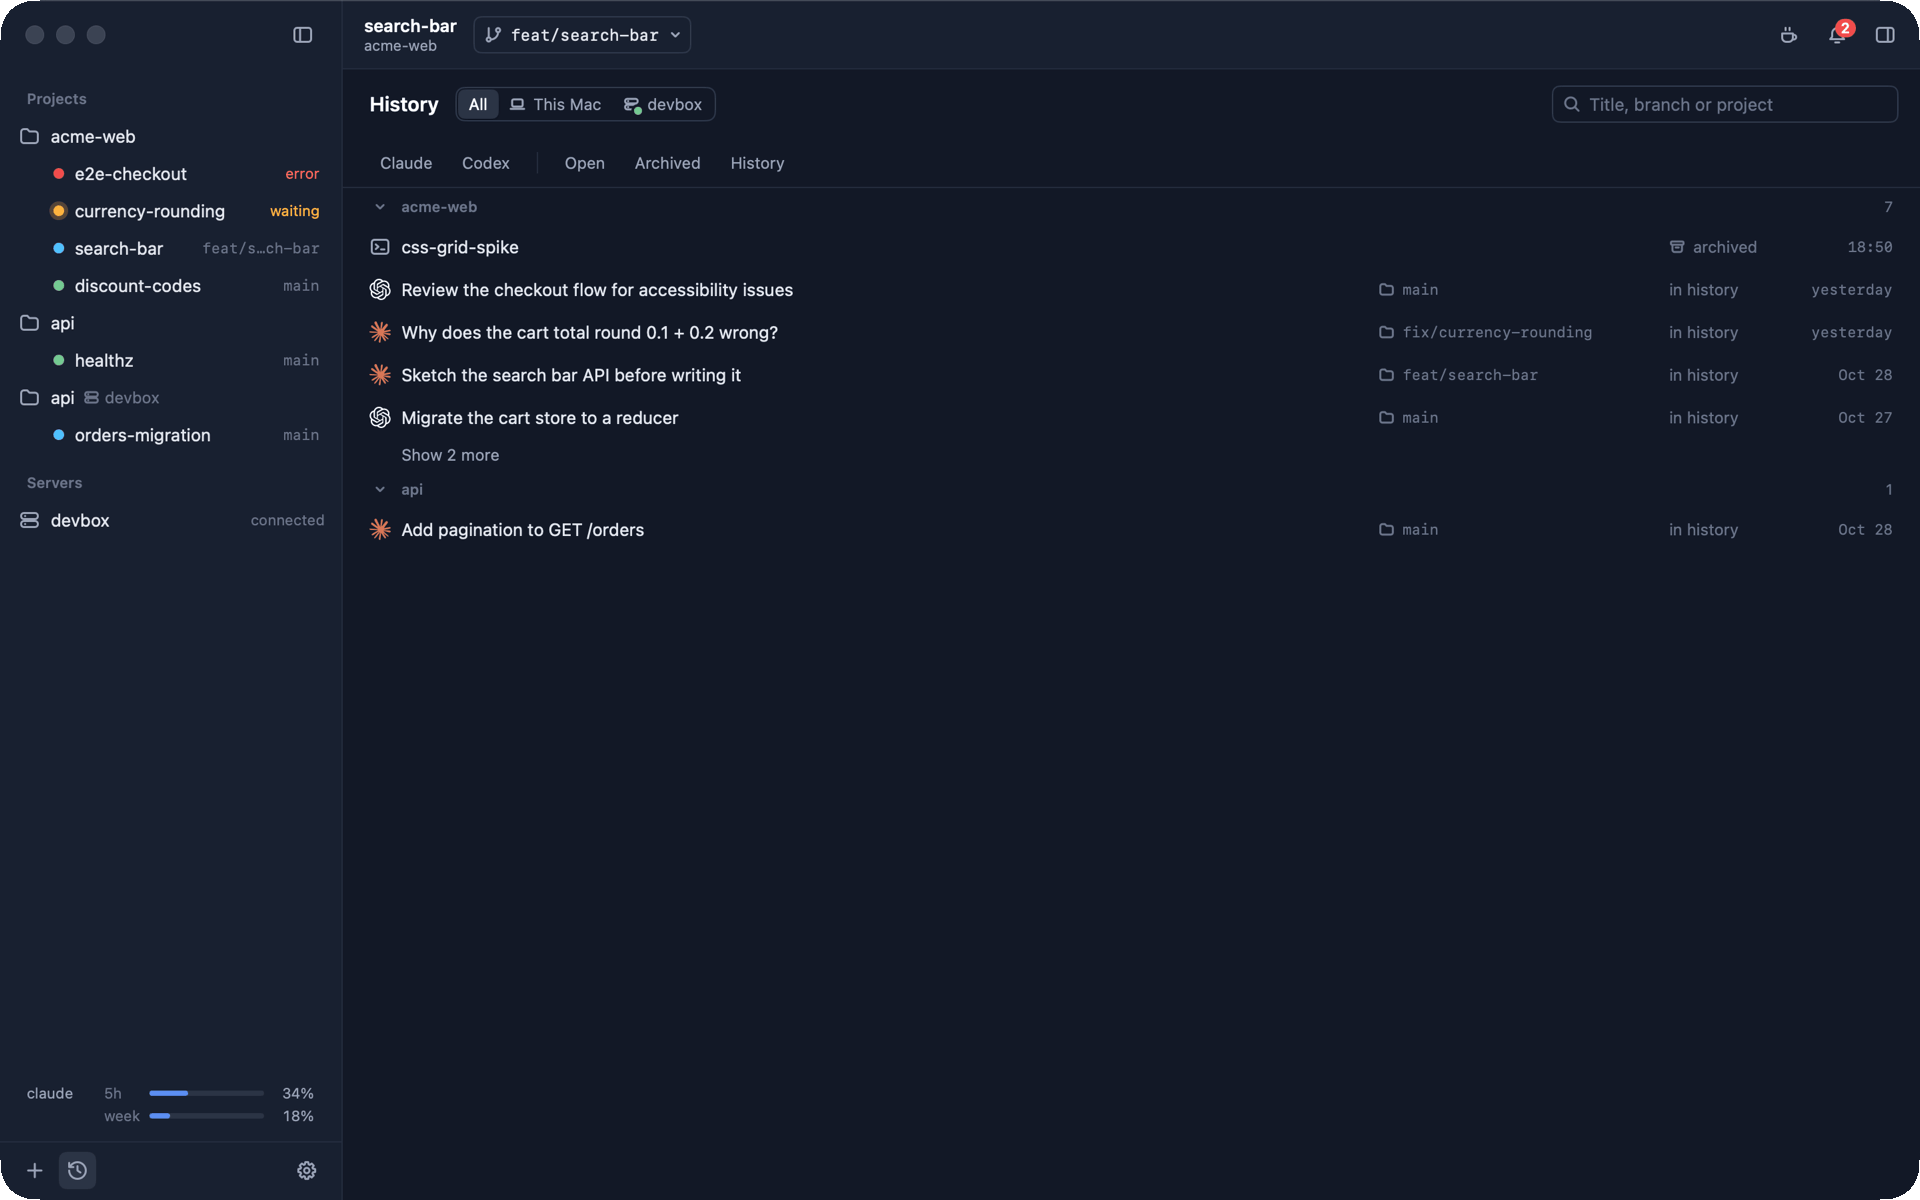
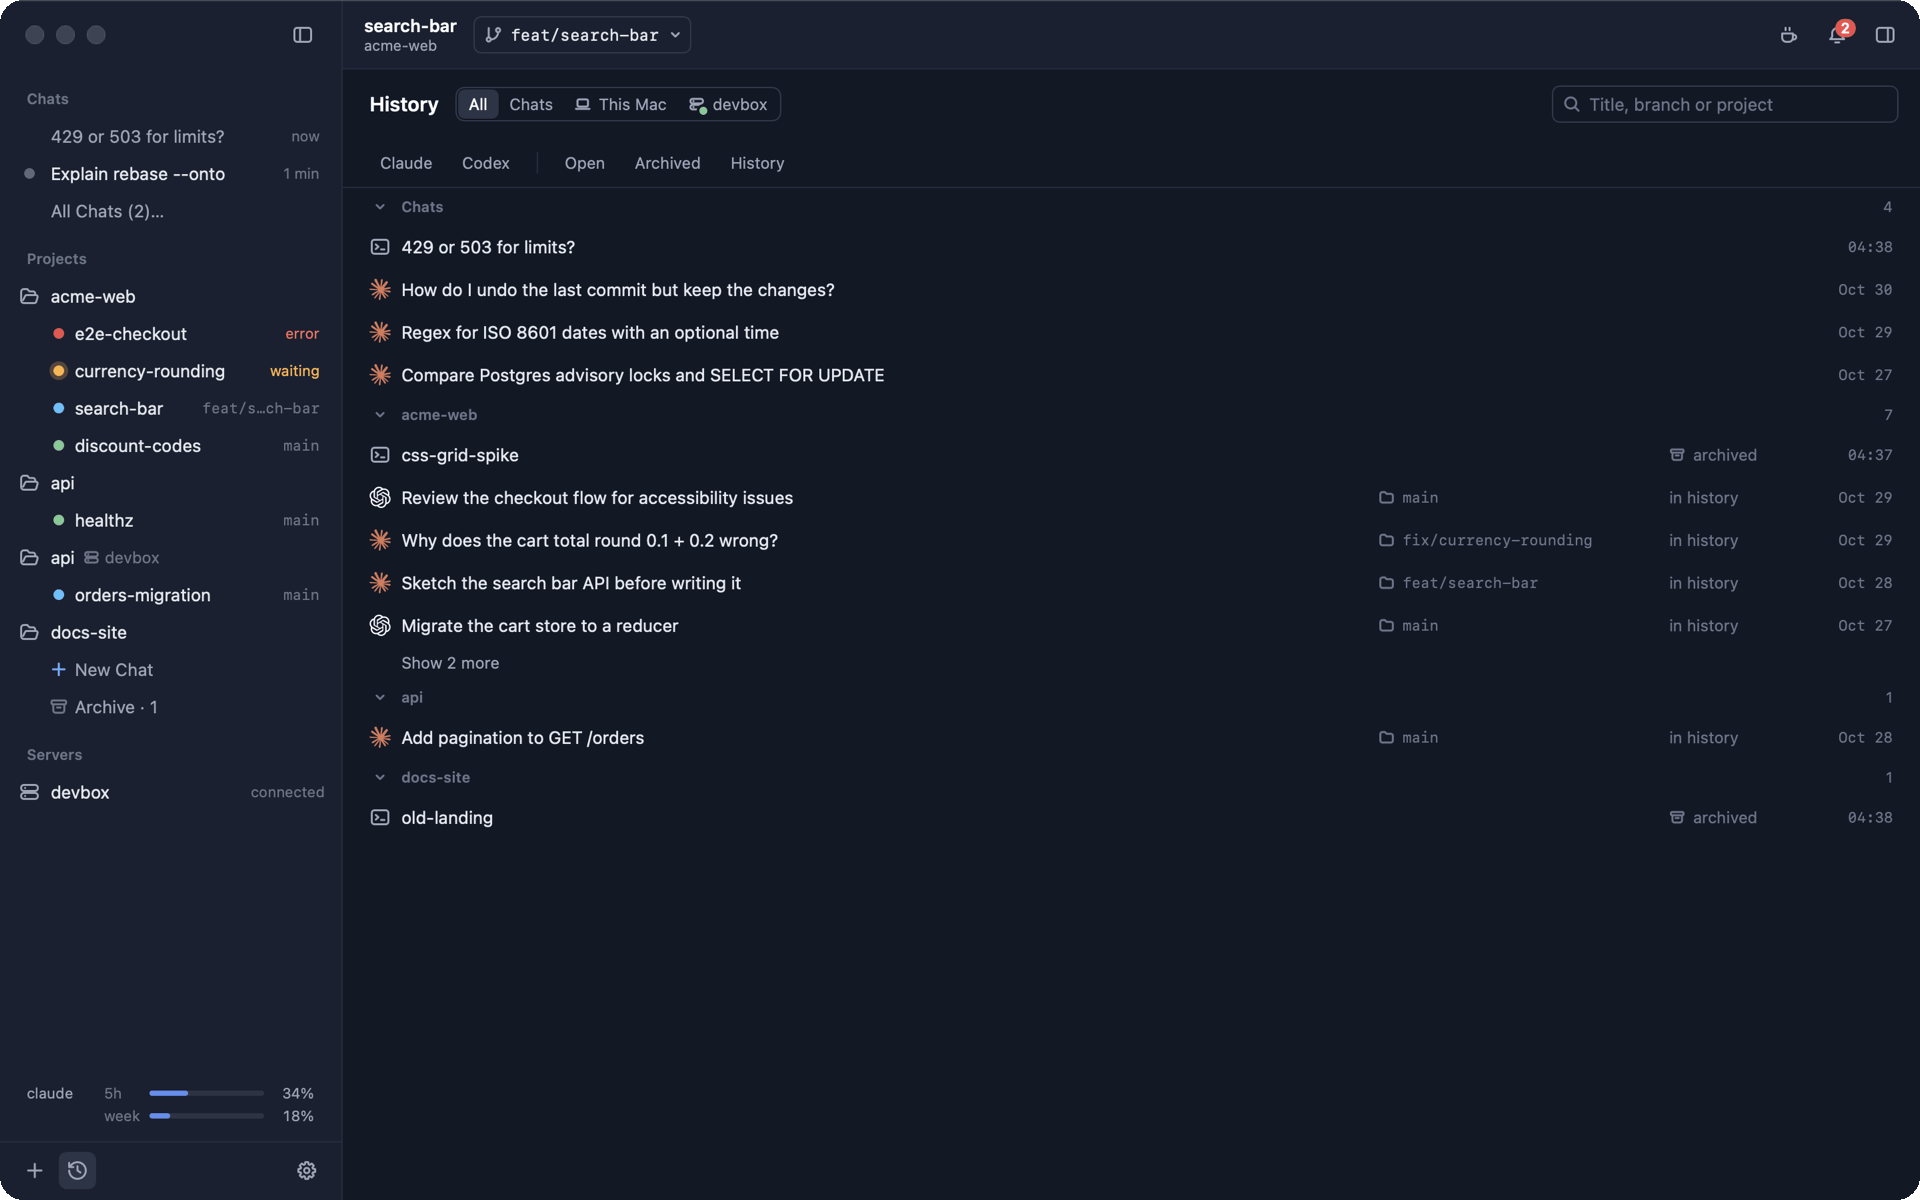
docs: README for v0.10/v0.11 features
Features: moved or missing chat copies, empty-project rows, chats without
a project (⌥⌘N, sleep/wake, History «Chats» scope), files of SSH
terminals (folder-following panel, drag-and-drop upload with merge).
Shortcuts: ⌥⌘N. CLI and MCP: project chats only.

Screenshots main, history, remote and main-ru re-shot from the media
fixture, which now has chats without a project, an empty project and a
fake host terminal (ssh -G, its own master socket, the folder hook);
shots.sh gains SNAP=1 for runs where the screen can't be captured.

diff --git a/README.md b/README.md
@@ -19,7 +19,7 @@ A native macOS app for running Claude Code and Codex side by side: one chat per 
 
 ## What it is
 
-Hangar is a workspace for coding agents. You add projects (local folders or folders on an SSH server); each project holds chats. A chat is one piece of work for one or more agents: its own terminal tabs and splits, and either the project folder or a separate copy of it (a git worktree on its own branch). The sidebar shows every chat with its state, so you can run several agents at once and see which one needs you.
+Hangar is a workspace for coding agents. You add projects (local folders or folders on an SSH server); each project holds chats. Questions that don't belong to a repository go to chats without a project. A chat is one piece of work for one or more agents: its own terminal tabs and splits, and either the project folder or a separate copy of it (a git worktree on its own branch). The sidebar shows every chat with its state, so you can run several agents at once and see which one needs you.
 
 It is a Swift/AppKit app, not Electron. Terminals are [libghostty](https://github.com/ghostty-org/ghostty) and use your Ghostty config. Hangar does not replace the agents: it runs the `claude` and `codex` you already have.
 
@@ -27,16 +27,16 @@ It is a Swift/AppKit app, not Electron. Terminals are [libghostty](https://githu
 
 <table>
   <tr>
-    <td width="50%"><img src="docs/assets/screenshots/main.png" alt="Chats in the sidebar with their states, a Claude Code transcript, the Changes tab"><br><sub>Chats and their states, Claude's status line, Changes</sub></td>
+    <td width="50%"><img src="docs/assets/screenshots/main.png" alt="Chats in the sidebar with their states, chats without a project, a Claude Code transcript, the Changes tab"><br><sub>Chats and their states, Claude's status line, Changes</sub></td>
     <td width="50%"><img src="docs/assets/screenshots/branch.png" alt="Branch switcher open from the toolbar"><br><sub>Branch switcher in the toolbar</sub></td>
   </tr>
   <tr>
     <td><img src="docs/assets/screenshots/new-chat.png" alt="New Chat sheet: project folder or a separate copy"><br><sub>New Chat: project folder or a separate copy</sub></td>
-    <td><img src="docs/assets/screenshots/history.png" alt="History: closed chats and past Claude and Codex conversations"><br><sub>History (⌘Y)</sub></td>
+    <td><img src="docs/assets/screenshots/history.png" alt="History: chats without a project, closed chats and past Claude and Codex conversations"><br><sub>History (⌘Y)</sub></td>
   </tr>
   <tr>
     <td><img src="docs/assets/screenshots/diff.png" alt="Side-by-side diff in the VS Code Dark+ theme"><br><sub>Diff, VS Code Dark+ theme</sub></td>
-    <td><img src="docs/assets/screenshots/remote.png" alt="A chat on an SSH server with the Git tab"><br><sub>A project on an SSH server, Git tab</sub></td>
+    <td><img src="docs/assets/screenshots/remote.png" alt="A terminal on an SSH server with its Files panel"><br><sub>SSH terminal: the server's files follow its folder</sub></td>
   </tr>
   <tr>
     <td><img src="docs/assets/screenshots/settings.png" alt="Settings, Appearance: three themes, each with its editor theme"><br><sub>Settings → Appearance</sub></td>
@@ -46,14 +46,15 @@ It is a Swift/AppKit app, not Electron. Terminals are [libghostty](https://githu
 
 ## Features
 
-- **Chats.** One row per chat in the sidebar, grouped under Projects and Servers. A chat works in the project folder or in a separate copy (a git worktree with its own branch, created next to the project, not inside it), optionally prepared with `pnpm install` / `yarn` / `bun`.
+- **Chats.** One row per chat in the sidebar, grouped under Projects and Servers. A chat works in the project folder or in a separate copy (a git worktree with its own branch, created next to the project, not inside it), optionally prepared with `pnpm install` / `yarn` / `bun`. If a copy is moved (say, by `git worktree move`) or deleted, the chat says so instead of showing the project's files, and «Update Path» follows the move. A project with no open chats shows «+ New Chat» and «Archive · N»; its folder icon opens and closes with it.
+- **Chats without a project.** ⌥⌘N (or «+» in the Chats section) starts your default agent in one shared Chats folder, for questions that aren't about a repository. Closing such a chat puts it to sleep; a click wakes it with its own conversation. Files dropped on its Files panel are copied into the folder and mentioned in the agent's input.
 - **Agent states.** Working, waiting, done, error and at-limit, from Claude Code and Codex hooks: a dot in the sidebar, a word when a chat needs you, the bell's inbox, the Dock badge and notifications.
 - **Branch in the toolbar.** Each chat shows its live branch. The switcher checks out a local or remote branch or creates a new one, and refuses when uncommitted changes or ignored files would be lost.
 - **Inspector.** Files, Changes (not committed or the whole branch), Git (branches, graph, history with filters) and Search in files.
 - **Editor and diff.** [Monaco](https://github.com/microsoft/monaco-editor), side-by-side or inline diff. TypeScript/JavaScript go to definition, references, hover and rename via the project's `tsserver`; Python, Swift, Go and Rust via `pyright`/`pylsp`, `sourcekit-lsp`, `gopls`, `rust-analyzer` when installed.
-- **History (⌘Y).** Closed chats and past Claude and Codex conversations, searchable, with Continue.
+- **History (⌘Y).** Closed chats and past Claude and Codex conversations, searchable, with Continue. The Chats scope lists chats without a project by day and searches the text of their conversations.
 - **Restore.** After a restart every chat reopens its tabs, splits and its own agent conversation (by id, never "the latest one in this folder").
-- **SSH servers.** Remote projects run in `tmux` on the host and survive disconnects; statuses and limits come back over the SSH connection.
+- **SSH servers.** Remote projects run in `tmux` on the host and survive disconnects; statuses and limits come back over the SSH connection. Any host from `~/.ssh/config` also opens as a plain terminal: its Files panel follows the terminal's current folder and uploads files and folders dropped from Finder (Skip / Replace, or Merge for a folder), over the terminal's SSH connection without a second login. When the host's config or shell doesn't allow that, the tab falls back to a plain `ssh` login.
 - **Usage limits.** Claude and Codex subscription limits (5 hours and week) in the sidebar.
 - **Claude status line.** Hangar's own line under Claude's prompt: model, context, 5-hour and weekly limits, optionally branch and effort; or keep yours.
 - **Appearance.** Hangar Navy, VS Code Dark+ and Graphite; each theme brings a matching editor theme, which you can customise color by color.
@@ -94,6 +95,7 @@ Changes are additive: Hangar only adds and removes its own entries, leaves yours
 |---|---|
 | ⌘N | New chat |
 | ⇧⌘N | Add project |
+| ⌥⌘N | New chat without a project |
 | ⌘T / ⌘W | New tab / close tab (in a split: the focused pane) |
 | ⇧⌘W | Archive chat |
 | ⌘D / ⇧⌘D | Split right / split down |
@@ -126,7 +128,7 @@ hangar tabs read --tab <id> --lines 40
 hangar doctor
 ```
 
-A chat is a `session` in the CLI and MCP (`hangar sessions …`, `sessions_list`); those names are the API and stay. `hangar mcp` runs the MCP server over stdio (`--read-only` for the safe subset). Destructive calls require `--yes` / `yes: true`.
+A chat is a `session` in the CLI and MCP (`hangar sessions …`, `sessions_list`); those names are the API and stay. They cover project chats only: chats without a project and server terminals aren't visible there. `hangar mcp` runs the MCP server over stdio (`--read-only` for the safe subset). Destructive calls require `--yes` / `yes: true`.
 
 ## Build from source
 
